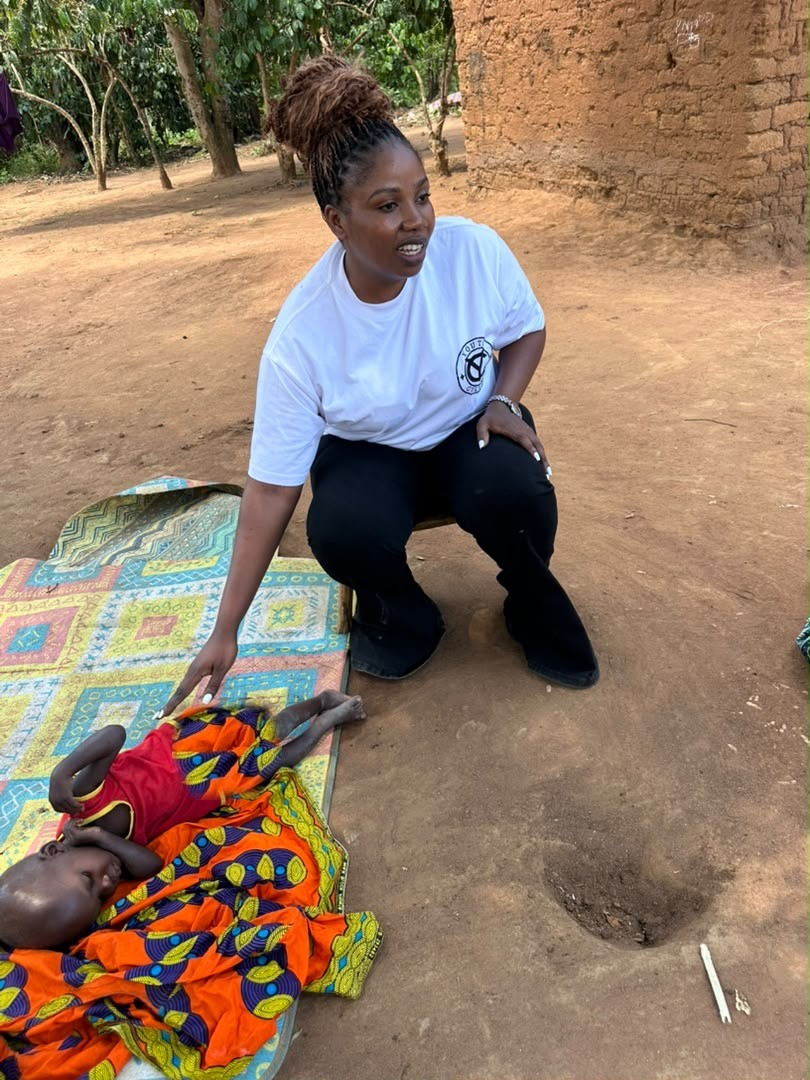
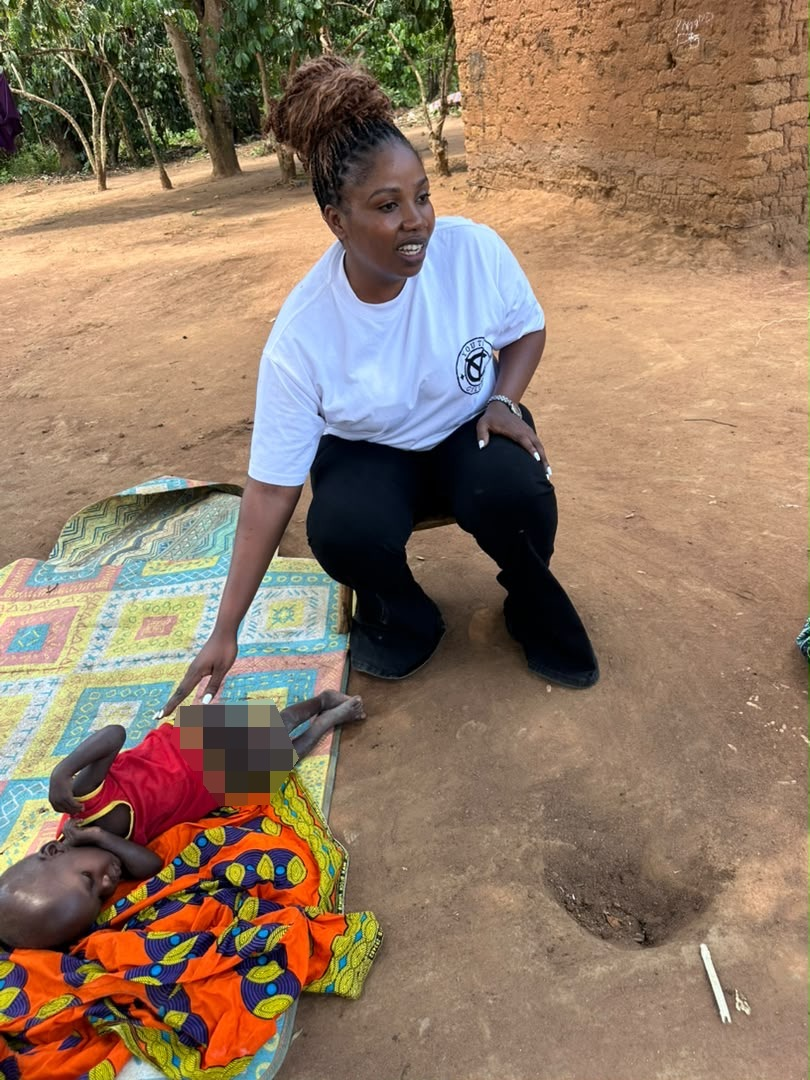
Make Elvis the first story; pixelate photo instead of fabric patch
Stories reordered Elvis, Shakirah, Esther, Isha with cream/white
sections still alternating.

Claude-Session: https://claude.ai/code/session_01HswpQWKTVgsWT7bmcfN4Dz

Changed region(s): [[0.1852, 0.6417, 0.3704, 0.7639]]

diff --git a/testimonials.html b/testimonials.html
@@ -77,41 +77,9 @@
       </div>
     </section>
 
-    <section id="shakirah" class="section">
+    <section id="elvis" class="section">
       <div class="container split">
-        <div class="split__media"><div class="photo photo--arch" style="max-width: 420px" role="img" aria-label="Photo placeholder: Photo — Namambo Shakirah"><span class="photo__label"><svg viewBox="0 0 24 24" fill="none" stroke="currentColor" stroke-width="1.6" stroke-linecap="round" stroke-linejoin="round" aria-hidden="true"><path d="M4 7h3l2-3h6l2 3h3v12H4z"/><circle cx="12" cy="13" r="3.5"/></svg>Photo — Namambo Shakirah</span></div></div>
-        <div class="split__text">
-          <span class="tag">Teen Mothers</span>
-          <h2 style="margin: 16px 0 20px">Namambo Shakirah</h2>
-          <p>At 16, Shakirah was abandoned by her partner and left to raise her baby alone. The Foundation stepped in with practical support and encouragement.</p>
-          <span class="tbc">[Full story — from the beneficiary documents]</span>
-        </div>
-      </div>
-    </section>
-    <section id="esther" class="section section--cream programme--reverse">
-      <div class="container split" style="flex-wrap: wrap-reverse">
-        <div class="split__text">
-          <span class="tag">Orphans</span>
-          <h2 style="margin: 16px 0 20px">Namubiru Esther</h2>
-          <p>An orphan in Primary Six, chased from home when her pregnancy became known. We are helping her find safety, support and a second chance.</p>
-          <span class="tbc">[Full story — from the beneficiary documents]</span>
-        </div>
-        <div class="split__media"><div class="photo photo--arch" style="max-width: 420px" role="img" aria-label="Photo placeholder: Photo — Namubiru Esther"><span class="photo__label"><svg viewBox="0 0 24 24" fill="none" stroke="currentColor" stroke-width="1.6" stroke-linecap="round" stroke-linejoin="round" aria-hidden="true"><path d="M4 7h3l2-3h6l2 3h3v12H4z"/><circle cx="12" cy="13" r="3.5"/></svg>Photo — Namubiru Esther</span></div></div>
-      </div>
-    </section>
-    <section id="isha" class="section">
-      <div class="container split">
-        <div class="split__media"><div class="photo photo--arch" style="max-width: 420px" role="img" aria-label="Photo placeholder: Photo — Malita Isha"><span class="photo__label"><svg viewBox="0 0 24 24" fill="none" stroke="currentColor" stroke-width="1.6" stroke-linecap="round" stroke-linejoin="round" aria-hidden="true"><path d="M4 7h3l2-3h6l2 3h3v12H4z"/><circle cx="12" cy="13" r="3.5"/></svg>Photo — Malita Isha</span></div></div>
-        <div class="split__text">
-          <span class="tag">[Programme]</span>
-          <h2 style="margin: 16px 0 20px">Malita Isha</h2>
-          
-          <span class="tbc">[Full story — from the beneficiary documents]</span>
-        </div>
-      </div>
-    </section>
-    <section id="elvis" class="section section--cream programme--reverse">
-      <div class="container split" style="flex-wrap: wrap-reverse">
+        <div class="split__media"><div class="arch-frame" style="max-width: 420px"><div class="photo photo--arch"><img src="assets/images/stories/elvis.jpg?v=2" alt="Elvis, aged two, lying on a mat outside his home during a visit from the Foundation" loading="lazy" style="object-position: center bottom"></div></div></div>
         <div class="split__text">
           <span class="tag">Child Healthcare &amp; Nutrition</span>
           <h2 style="margin: 16px 0 20px">Elvis</h2>
@@ -122,7 +90,39 @@
             <a href="support-us.html#donate" class="btn btn--gold">Help a child like Elvis</a>
           </div>
         </div>
-        <div class="split__media"><div class="arch-frame" style="max-width: 420px"><div class="photo photo--arch"><img src="assets/images/stories/elvis.jpg" alt="Elvis, aged two, lying on a mat outside his home during a visit from the Foundation" loading="lazy" style="object-position: center bottom"></div></div></div>
+      </div>
+    </section>
+    <section id="shakirah" class="section section--cream programme--reverse">
+      <div class="container split" style="flex-wrap: wrap-reverse">
+        <div class="split__text">
+          <span class="tag">Teen Mothers</span>
+          <h2 style="margin: 16px 0 20px">Namambo Shakirah</h2>
+          <p>At 16, Shakirah was abandoned by her partner and left to raise her baby alone. The Foundation stepped in with practical support and encouragement.</p>
+          <span class="tbc">[Full story — from the beneficiary documents]</span>
+        </div>
+        <div class="split__media"><div class="photo photo--arch" style="max-width: 420px" role="img" aria-label="Photo placeholder: Photo — Namambo Shakirah"><span class="photo__label"><svg viewBox="0 0 24 24" fill="none" stroke="currentColor" stroke-width="1.6" stroke-linecap="round" stroke-linejoin="round" aria-hidden="true"><path d="M4 7h3l2-3h6l2 3h3v12H4z"/><circle cx="12" cy="13" r="3.5"/></svg>Photo — Namambo Shakirah</span></div></div>
+      </div>
+    </section>
+    <section id="esther" class="section">
+      <div class="container split">
+        <div class="split__media"><div class="photo photo--arch" style="max-width: 420px" role="img" aria-label="Photo placeholder: Photo — Namubiru Esther"><span class="photo__label"><svg viewBox="0 0 24 24" fill="none" stroke="currentColor" stroke-width="1.6" stroke-linecap="round" stroke-linejoin="round" aria-hidden="true"><path d="M4 7h3l2-3h6l2 3h3v12H4z"/><circle cx="12" cy="13" r="3.5"/></svg>Photo — Namubiru Esther</span></div></div>
+        <div class="split__text">
+          <span class="tag">Orphans</span>
+          <h2 style="margin: 16px 0 20px">Namubiru Esther</h2>
+          <p>An orphan in Primary Six, chased from home when her pregnancy became known. We are helping her find safety, support and a second chance.</p>
+          <span class="tbc">[Full story — from the beneficiary documents]</span>
+        </div>
+      </div>
+    </section>
+    <section id="isha" class="section section--cream programme--reverse">
+      <div class="container split" style="flex-wrap: wrap-reverse">
+        <div class="split__text">
+          <span class="tag">[Programme]</span>
+          <h2 style="margin: 16px 0 20px">Malita Isha</h2>
+          
+          <span class="tbc">[Full story — from the beneficiary documents]</span>
+        </div>
+        <div class="split__media"><div class="photo photo--arch" style="max-width: 420px" role="img" aria-label="Photo placeholder: Photo — Malita Isha"><span class="photo__label"><svg viewBox="0 0 24 24" fill="none" stroke="currentColor" stroke-width="1.6" stroke-linecap="round" stroke-linejoin="round" aria-hidden="true"><path d="M4 7h3l2-3h6l2 3h3v12H4z"/><circle cx="12" cy="13" r="3.5"/></svg>Photo — Malita Isha</span></div></div>
       </div>
     </section>
 
